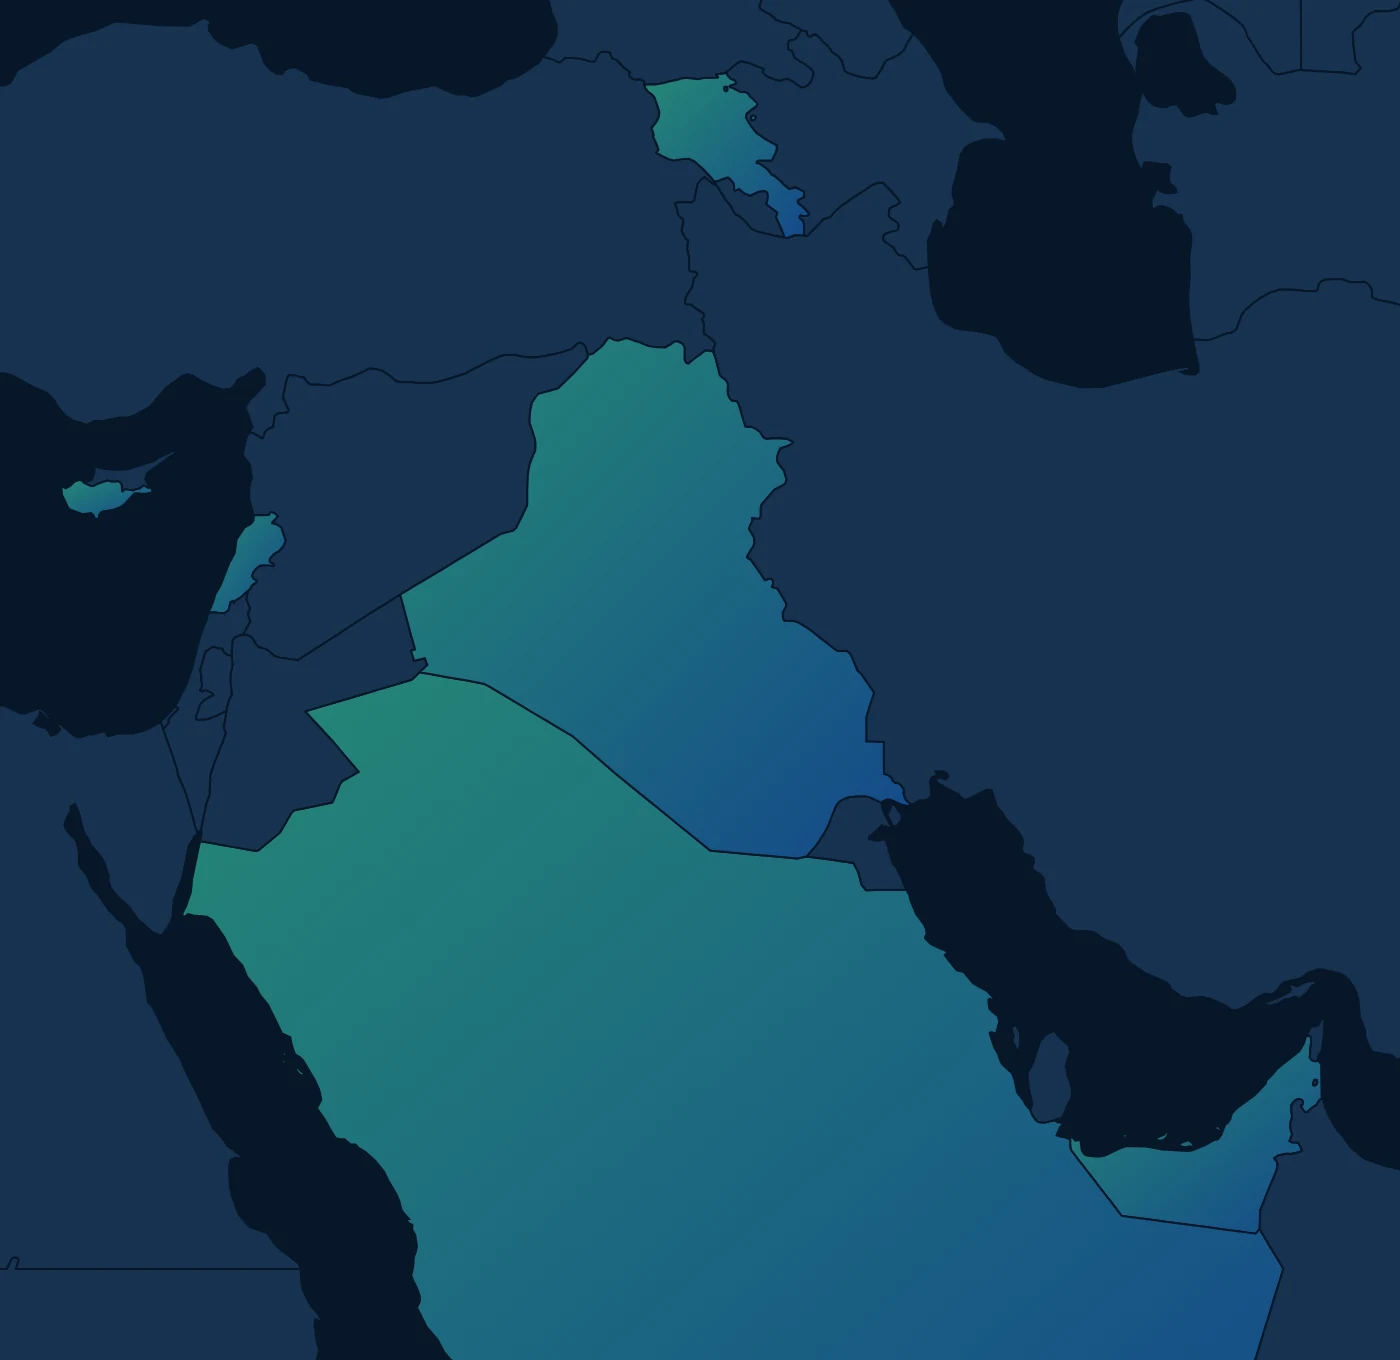
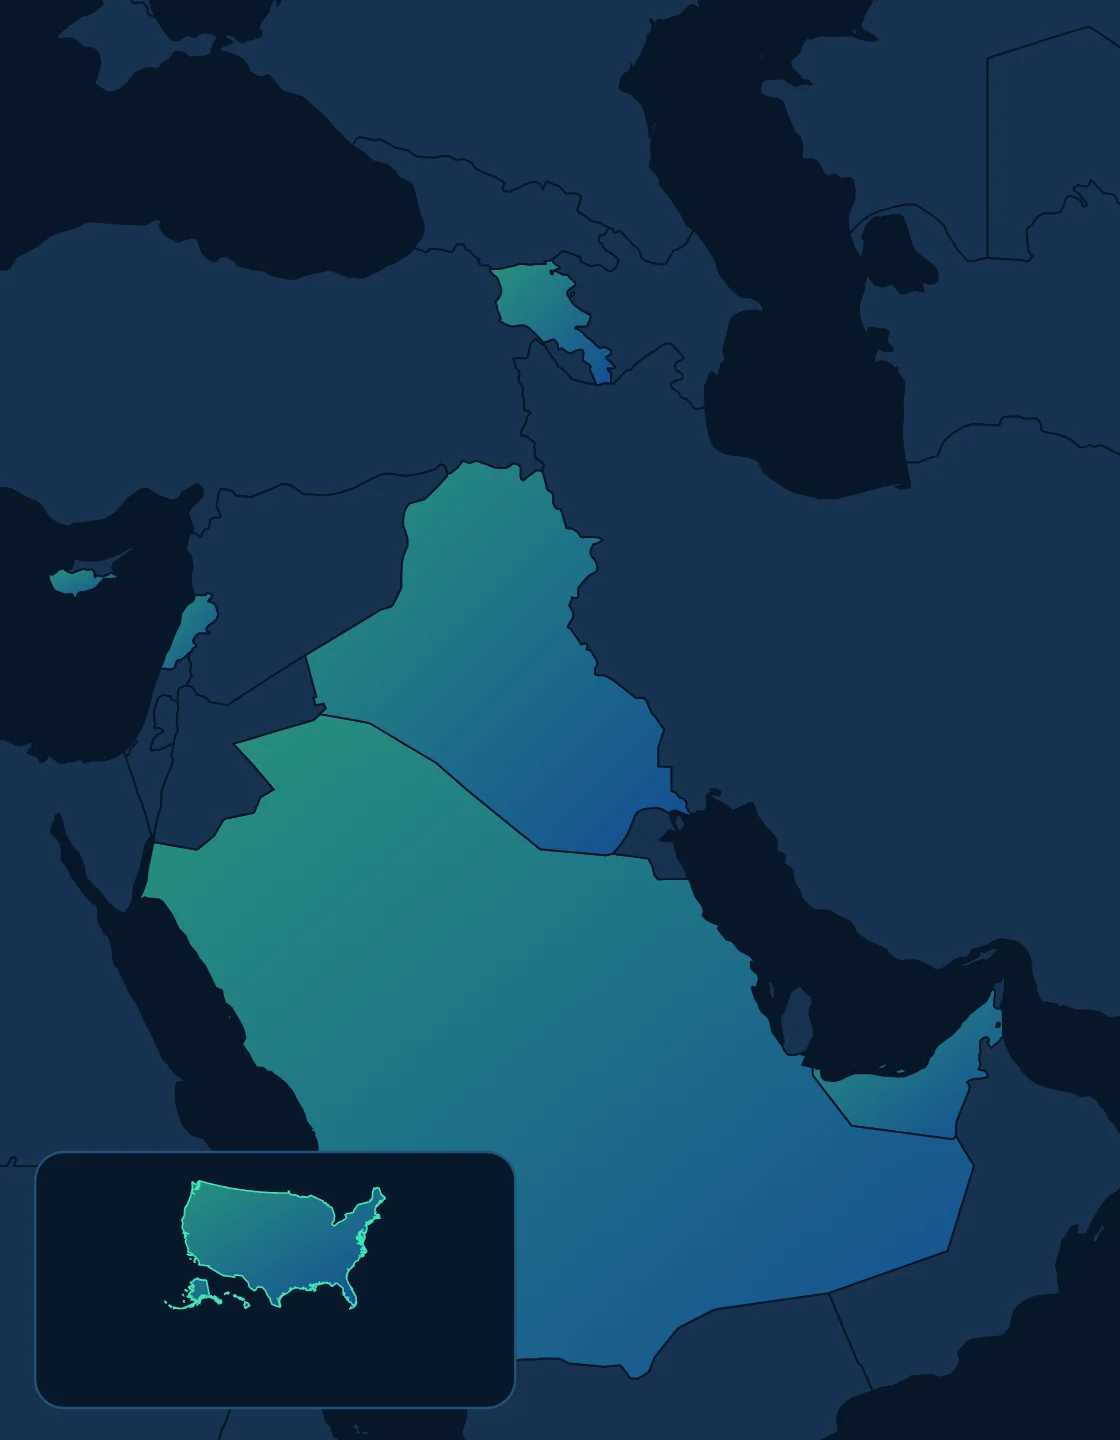
Website: 'Where we work' zoomed into the region on laptop and phone, labels on the map, USA inset; phone map full width
Claude-Session: https://claude.ai/code/session_01657LE6UpYybTazLHpPMpf7

diff --git a/site/index.html b/site/index.html
@@ -256,9 +256,9 @@ body.menu-open nav{opacity:1}
 #sectors{padding-block:110px 30px;border:0;overflow:hidden}
 .rmapbox{position:relative;margin-top:40px;border:1px solid var(--line);border-radius:28px;background:#071729;overflow:hidden;padding:0}
 .gmap .glap{position:relative}.gmap img{display:block;width:100%;height:auto}.gov{position:absolute;inset:0;width:100%;height:100%}
-.gov .gct{font-family:var(--display);font-weight:700;font-size:30px;fill:#fff}.gov .ghq{font-family:var(--display);font-weight:700;font-size:33px;fill:#3EE6B4}.gov .gcn{font-family:var(--mono);font-size:17px;letter-spacing:.16em;fill:#61C0E9;text-transform:uppercase}
-.gph{display:none;position:relative}.gov .rc{font-family:var(--display);font-weight:700;font-size:26px;fill:#fff;paint-order:stroke;stroke:#071729;stroke-width:6px}.gov .rh{font-family:var(--display);font-weight:700;font-size:32px;fill:#3EE6B4;paint-order:stroke;stroke:#071729;stroke-width:6px}.gov .rn{font-family:var(--mono);font-size:14px;letter-spacing:.14em;fill:#61C0E9}.gov .rhn{fill:#3EE6B4}.gusa{position:absolute;right:12px;bottom:12px;display:flex;align-items:center;gap:8px;padding:8px 12px;border:1px solid #24507a;border-radius:99px;background:rgba(6,24,43,.88);font-size:13px;color:#fff}.gusa i{width:8px;height:8px;border-radius:50%;background:#3EE6B4}.gusa span{font-family:var(--mono);font-size:10px;letter-spacing:.14em;color:#61C0E9}
-@media (max-width:700px){.glap{display:none}.gph{display:block}}
+.gov .zc{font-family:var(--display);font-weight:700;fill:#fff;paint-order:stroke;stroke:#071729;stroke-width:6px}.gov .zh{font-family:var(--display);font-weight:700;fill:#3EE6B4;paint-order:stroke;stroke:#071729;stroke-width:6px}.gov .zn{font-family:var(--mono);letter-spacing:.14em;fill:#61C0E9;stroke:none}.gov .zhn{fill:#3EE6B4}
+.gph{display:none;position:relative}
+@media (max-width:700px){.glap{display:none}.gph{display:block}#rmapbox.gmap{margin-inline:-16px;border-radius:0;border-left:0;border-right:0}}
 .rmap{display:block;width:100%;height:auto}
 .rmap .arc{fill:none;stroke:url(#arcg);stroke-width:3;stroke-linecap:round;opacity:.9}
 .rmap .mk .core{fill:#3EE6B4;stroke:#06182B;stroke-width:3}
@@ -405,8 +405,8 @@ body.menu-open nav{opacity:1}
   <h2 class="sec-title rv" id="reachT">Everything runs from Beirut.</h2>
   <p class="cl-sub rv">One team in Beirut, serving clients in seven countries on three continents.</p>
   <div class="rmapbox gmap rv" id="rmapbox">
-    <div class="glap"><img src="map/world-lap.webp" width="1920" height="910" alt="" loading="lazy" decoding="async"><svg class="gov" viewBox="0 170 1920 910" role="img" aria-label="Map: APEX is headquartered in Beirut, Lebanon, with clients in the USA, Cyprus, Armenia, Iraq, Saudi Arabia and the UAE"><polyline points="963.0,515.4 1540,370 1588,370" fill="none" stroke="#3EE6B4" stroke-width="1.4" stroke-opacity=".8"/><text x="1600" y="377" class="gct">Yerevan</text><text x="1600" y="403" class="gcn">Armenia</text><polyline points="922.4,539.9 1540,485 1588,485" fill="none" stroke="#3EE6B4" stroke-width="1.4" stroke-opacity=".8"/><text x="1600" y="492" class="gct">Nicosia</text><text x="1600" y="518" class="gcn">Cyprus</text><polyline points="967.2,549.1 1540,600 1588,600" fill="none" stroke="#3EE6B4" stroke-width="1.4" stroke-opacity=".8"/><text x="1600" y="607" class="gct">Baghdad</text><text x="1600" y="633" class="gcn">Iraq</text><polyline points="1016.1,588.9 1540,715 1588,715" fill="none" stroke="#3EE6B4" stroke-width="1.4" stroke-opacity=".8"/><text x="1600" y="722" class="gct">Dubai</text><text x="1600" y="748" class="gcn">United Arab Emirates</text><polyline points="981.4,591.3 1540,830 1588,830" fill="none" stroke="#3EE6B4" stroke-width="1.4" stroke-opacity=".8"/><text x="1600" y="837" class="gct">Riyadh</text><text x="1600" y="863" class="gcn">Saudi Arabia</text><line x1="931.5" y1="546.2" x2="931.5" y2="275" stroke="#3EE6B4" stroke-width="1.4" stroke-opacity=".8"/><text x="931.5" y="225" text-anchor="middle" class="ghq">Beirut – Headquarters</text><text x="931.5" y="254" text-anchor="middle" class="gcn">Lebanon</text><circle cx="963.0" cy="515.4" r="3.6" fill="#3EE6B4" stroke="#06182B" stroke-width="1.5"/><circle cx="922.4" cy="539.9" r="3.6" fill="#3EE6B4" stroke="#06182B" stroke-width="1.5"/><circle cx="931.5" cy="546.2" r="3.6" fill="#3EE6B4" stroke="#06182B" stroke-width="1.5"/><circle cx="967.2" cy="549.1" r="3.6" fill="#3EE6B4" stroke="#06182B" stroke-width="1.5"/><circle cx="1016.1" cy="588.9" r="3.6" fill="#3EE6B4" stroke="#06182B" stroke-width="1.5"/><circle cx="981.4" cy="591.3" r="3.6" fill="#3EE6B4" stroke="#06182B" stroke-width="1.5"/><polyline points="356.1,512.6 323,560 275,560" fill="none" stroke="#3EE6B4" stroke-width="1.4" stroke-opacity=".8"/><circle cx="356.1" cy="512.6" r="4.5" fill="#3EE6B4" stroke="#06182B" stroke-width="1.4" stroke-opacity=".8"/><text x="263" y="558" text-anchor="end" class="gct" dy="7">Salt Lake City</text><text x="263" y="593" text-anchor="end" class="gcn">United States</text></svg></div>
-    <div class="gph"><img src="map/region-ph.webp" width="1400" height="1360" alt="" loading="lazy" decoding="async"><svg class="gov" viewBox="0 0 700 680" role="img" aria-label="Map of the Middle East: Beirut headquarters, Nicosia, Yerevan, Baghdad, Riyadh and Dubai"><circle cx="114.4" cy="281.0" r="22" fill="#3EE6B4" opacity=".18"/><circle cx="114.4" cy="281.0" r="9" fill="#fff" stroke="#3EE6B4" stroke-width="4"/><text x="140.0" y="287.0" text-anchor="start" class="rh">Beirut</text><text x="140.0" y="311.0" text-anchor="start" class="rn rhn">HQ · LEBANON</text><circle cx="58.9" cy="240.4" r="7" fill="#3EE6B4" stroke="#06182B" stroke-width="2.5"/><text x="58.9" y="196.4" text-anchor="middle" class="rc">Nicosia</text><text x="58.9" y="220.4" text-anchor="middle" class="rn">CYPRUS</text><circle cx="350.3" cy="74.5" r="7" fill="#3EE6B4" stroke="#06182B" stroke-width="2.5"/><text x="366.3" y="76.5" text-anchor="start" class="rc">Yerevan</text><text x="366.3" y="100.5" text-anchor="start" class="rn">ARMENIA</text><circle cx="346.6" cy="299.3" r="7" fill="#3EE6B4" stroke="#06182B" stroke-width="2.5"/><text x="362.6" y="301.3" text-anchor="start" class="rc">Baghdad</text><text x="362.6" y="325.3" text-anchor="start" class="rn">IRAQ</text><circle cx="408.1" cy="557.1" r="7" fill="#3EE6B4" stroke="#06182B" stroke-width="2.5"/><text x="392.1" y="559.1" text-anchor="end" class="rc">Riyadh</text><text x="392.1" y="583.1" text-anchor="end" class="rn">SAUDI ARABIA</text><circle cx="632.0" cy="543.0" r="7" fill="#3EE6B4" stroke="#06182B" stroke-width="2.5"/><text x="616.0" y="545.0" text-anchor="end" class="rc">Dubai</text><text x="616.0" y="569.0" text-anchor="end" class="rn">UAE</text></svg><div class="gusa"><i></i>Salt Lake City <span>USA</span></div></div>
+    <div class="glap"><img src="map/region-lap.webp?v=2" width="2800" height="1560" alt="" loading="lazy" decoding="async"><svg class="gov" viewBox="0 0 1400 780" role="img" aria-label="Map: APEX is headquartered in Beirut, Lebanon, with clients in Cyprus, Armenia, Iraq, Saudi Arabia, the UAE and Salt Lake City, USA"><circle cx="157.8" cy="619.1" r="9" fill="#3EE6B4" stroke="#06182B" stroke-width="2.5"/><text x="54" y="726" class="zc" style="font-size:27.2px">Salt Lake City <tspan class="zn" style="font-size:18px" dx="6">USA</tspan></text><circle cx="388.7" cy="334.8" r="30.6" fill="#3EE6B4" opacity=".18"/><circle cx="388.7" cy="334.8" r="13.5" fill="#fff" stroke="#3EE6B4" stroke-width="4"/><text x="407.4" y="346.0" text-anchor="start" class="zh" style="font-size:42.5px">Beirut</text><text x="407.4" y="370.0" text-anchor="start" class="zn zhn" style="font-size:15px">HQ · LEBANON</text><circle cx="312.9" cy="279.2" r="9.9" fill="#3EE6B4" stroke="#06182B" stroke-width="2.5"/><text x="312.9" y="239.4" text-anchor="middle" class="zc" style="font-size:34px">Nicosia</text><text x="312.9" y="263.4" text-anchor="middle" class="zn" style="font-size:15px">CYPRUS</text><circle cx="711.1" cy="52.6" r="9.9" fill="#3EE6B4" stroke="#06182B" stroke-width="2.5"/><text x="729.8" y="63.8" text-anchor="start" class="zc" style="font-size:34px">Yerevan</text><text x="729.8" y="87.8" text-anchor="start" class="zn" style="font-size:15px">ARMENIA</text><circle cx="706.1" cy="359.7" r="9.9" fill="#3EE6B4" stroke="#06182B" stroke-width="2.5"/><text x="724.8" y="370.9" text-anchor="start" class="zc" style="font-size:34px">Baghdad</text><text x="724.8" y="394.9" text-anchor="start" class="zn" style="font-size:15px">IRAQ</text><circle cx="790.2" cy="712.1" r="9.9" fill="#3EE6B4" stroke="#06182B" stroke-width="2.5"/><text x="808.9" y="723.3" text-anchor="start" class="zc" style="font-size:34px">Riyadh</text><text x="808.9" y="747.3" text-anchor="start" class="zn" style="font-size:15px">SAUDI ARABIA</text><circle cx="1096.1" cy="692.8" r="9.9" fill="#3EE6B4" stroke="#06182B" stroke-width="2.5"/><text x="1096.1" y="653.0" text-anchor="middle" class="zc" style="font-size:34px">Dubai</text><text x="1096.1" y="677.0" text-anchor="middle" class="zn" style="font-size:15px">UAE</text></svg></div>
+    <div class="gph"><img src="map/region-ph.webp?v=2" width="1120" height="1440" alt="" loading="lazy" decoding="async"><svg class="gov" viewBox="0 0 700 900" role="img" aria-label="Map: APEX is headquartered in Beirut, Lebanon, with clients in Cyprus, Armenia, Iraq, Saudi Arabia, the UAE and Salt Lake City, USA"><circle cx="142.0" cy="767.9" r="8" fill="#3EE6B4" stroke="#06182B" stroke-width="2.5"/><text x="42" y="856" class="zc" style="font-size:25.6px">Salt Lake City <tspan class="zn" style="font-size:16px" dx="6">USA</tspan></text><circle cx="109.6" cy="394.2" r="28.8" fill="#3EE6B4" opacity=".18"/><circle cx="109.6" cy="394.2" r="12" fill="#fff" stroke="#3EE6B4" stroke-width="4"/><text x="127.2" y="404.7" text-anchor="start" class="zh" style="font-size:40px">Beirut</text><text x="127.2" y="427.1" text-anchor="start" class="zn zhn" style="font-size:14px">HQ · LEBANON</text><circle cx="57.1" cy="355.7" r="8.8" fill="#3EE6B4" stroke="#06182B" stroke-width="2.5"/><text x="44.3" y="318.2" text-anchor="start" class="zc" style="font-size:32px">Nicosia</text><text x="44.3" y="340.6" text-anchor="start" class="zn" style="font-size:14px">CYPRUS</text><circle cx="332.9" cy="198.7" r="8.8" fill="#3EE6B4" stroke="#06182B" stroke-width="2.5"/><text x="350.5" y="209.2" text-anchor="start" class="zc" style="font-size:32px">Yerevan</text><text x="350.5" y="231.6" text-anchor="start" class="zn" style="font-size:14px">ARMENIA</text><circle cx="329.4" cy="411.4" r="8.8" fill="#3EE6B4" stroke="#06182B" stroke-width="2.5"/><text x="347.0" y="422.0" text-anchor="start" class="zc" style="font-size:32px">Baghdad</text><text x="347.0" y="444.4" text-anchor="start" class="zn" style="font-size:14px">IRAQ</text><circle cx="387.7" cy="655.5" r="8.8" fill="#3EE6B4" stroke="#06182B" stroke-width="2.5"/><text x="370.1" y="666.1" text-anchor="end" class="zc" style="font-size:32px">Riyadh</text><text x="370.1" y="688.5" text-anchor="end" class="zn" style="font-size:14px">SAUDI ARABIA</text><circle cx="599.6" cy="642.1" r="8.8" fill="#3EE6B4" stroke="#06182B" stroke-width="2.5"/><text x="582.0" y="652.7" text-anchor="end" class="zc" style="font-size:32px">Dubai</text><text x="582.0" y="675.1" text-anchor="end" class="zn" style="font-size:14px">UAE</text></svg></div>
   </div>
   <div class="secth"><span>Sectors we serve</span></div>
   <div class="smarq"><ul class="strack"><li><svg viewBox="0 0 24 24" aria-hidden="true"><path d="M12 5v14M5 12h14"/><rect x="3" y="3" width="18" height="18" rx="5"/></svg>Hospitals and clinics</li><li><svg viewBox="0 0 24 24" aria-hidden="true"><path d="M3 4h2l2.4 11h10.2L20 8H6.2"/><circle cx="9.5" cy="19" r="1.4"/><circle cx="16.5" cy="19" r="1.4"/></svg>Retail and supermarkets</li><li><svg viewBox="0 0 24 24" aria-hidden="true"><path d="M4 21V9l8-5 8 5v12"/><path d="M9 21v-6h6v6"/></svg>Real estate and contracting</li><li><svg viewBox="0 0 24 24" aria-hidden="true"><path d="M3 21V11l5 3V11l5 3V7l8 4v10z"/><path d="M7 18h2M12 18h2M17 18h1"/></svg>Manufacturing</li><li><svg viewBox="0 0 24 24" aria-hidden="true"><path d="M3 7h11v9H3zM14 10h4l3 3v3h-7"/><circle cx="7" cy="18" r="1.6"/><circle cx="17" cy="18" r="1.6"/></svg>Trading and distribution</li><li><svg viewBox="0 0 24 24" aria-hidden="true"><path d="M2 9l10-5 10 5-10 5z"/><path d="M6 11v5c3 2.5 9 2.5 12 0v-5"/></svg>Schools and universities</li><li><svg viewBox="0 0 24 24" aria-hidden="true"><path d="M3 18h18M5 18a7 7 0 0 1 14 0M12 8V6"/></svg>Hotels and restaurants</li><li><svg viewBox="0 0 24 24" aria-hidden="true"><circle cx="12" cy="5" r="2"/><path d="M12 7v13M5 13a7 7 0 0 0 14 0M8 11h8"/></svg>Ports and logistics</li><li><svg viewBox="0 0 24 24" aria-hidden="true"><path d="M12 3s6 6.5 6 11a6 6 0 0 1-12 0c0-4.5 6-11 6-11z"/></svg>Petroleum</li><li aria-hidden="true"><svg viewBox="0 0 24 24" aria-hidden="true"><path d="M12 5v14M5 12h14"/><rect x="3" y="3" width="18" height="18" rx="5"/></svg>Hospitals and clinics</li><li aria-hidden="true"><svg viewBox="0 0 24 24" aria-hidden="true"><path d="M3 4h2l2.4 11h10.2L20 8H6.2"/><circle cx="9.5" cy="19" r="1.4"/><circle cx="16.5" cy="19" r="1.4"/></svg>Retail and supermarkets</li><li aria-hidden="true"><svg viewBox="0 0 24 24" aria-hidden="true"><path d="M4 21V9l8-5 8 5v12"/><path d="M9 21v-6h6v6"/></svg>Real estate and contracting</li><li aria-hidden="true"><svg viewBox="0 0 24 24" aria-hidden="true"><path d="M3 21V11l5 3V11l5 3V7l8 4v10z"/><path d="M7 18h2M12 18h2M17 18h1"/></svg>Manufacturing</li><li aria-hidden="true"><svg viewBox="0 0 24 24" aria-hidden="true"><path d="M3 7h11v9H3zM14 10h4l3 3v3h-7"/><circle cx="7" cy="18" r="1.6"/><circle cx="17" cy="18" r="1.6"/></svg>Trading and distribution</li><li aria-hidden="true"><svg viewBox="0 0 24 24" aria-hidden="true"><path d="M2 9l10-5 10 5-10 5z"/><path d="M6 11v5c3 2.5 9 2.5 12 0v-5"/></svg>Schools and universities</li><li aria-hidden="true"><svg viewBox="0 0 24 24" aria-hidden="true"><path d="M3 18h18M5 18a7 7 0 0 1 14 0M12 8V6"/></svg>Hotels and restaurants</li><li aria-hidden="true"><svg viewBox="0 0 24 24" aria-hidden="true"><circle cx="12" cy="5" r="2"/><path d="M12 7v13M5 13a7 7 0 0 0 14 0M8 11h8"/></svg>Ports and logistics</li><li aria-hidden="true"><svg viewBox="0 0 24 24" aria-hidden="true"><path d="M12 3s6 6.5 6 11a6 6 0 0 1-12 0c0-4.5 6-11 6-11z"/></svg>Petroleum</li></ul></div>
